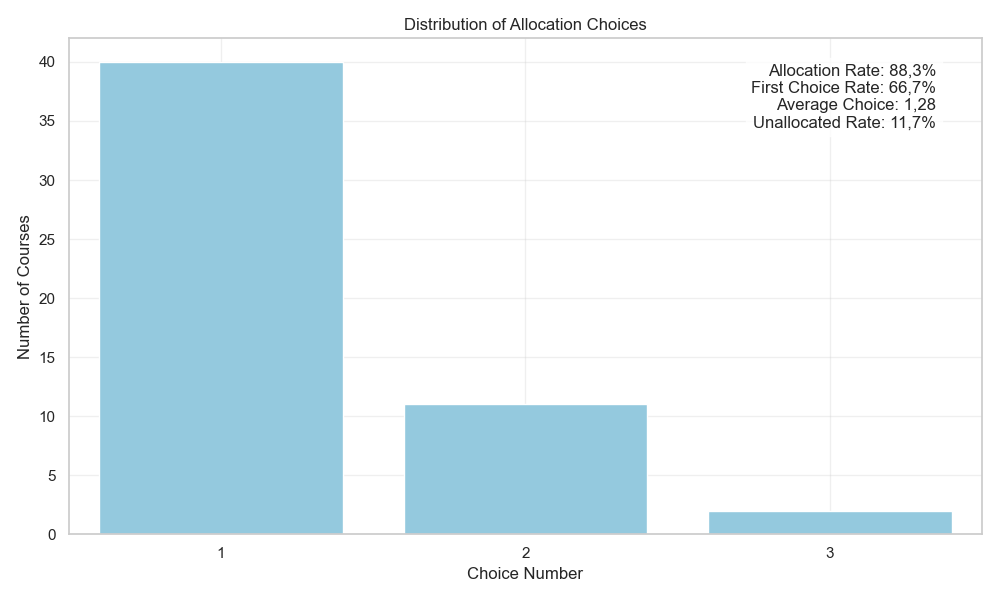
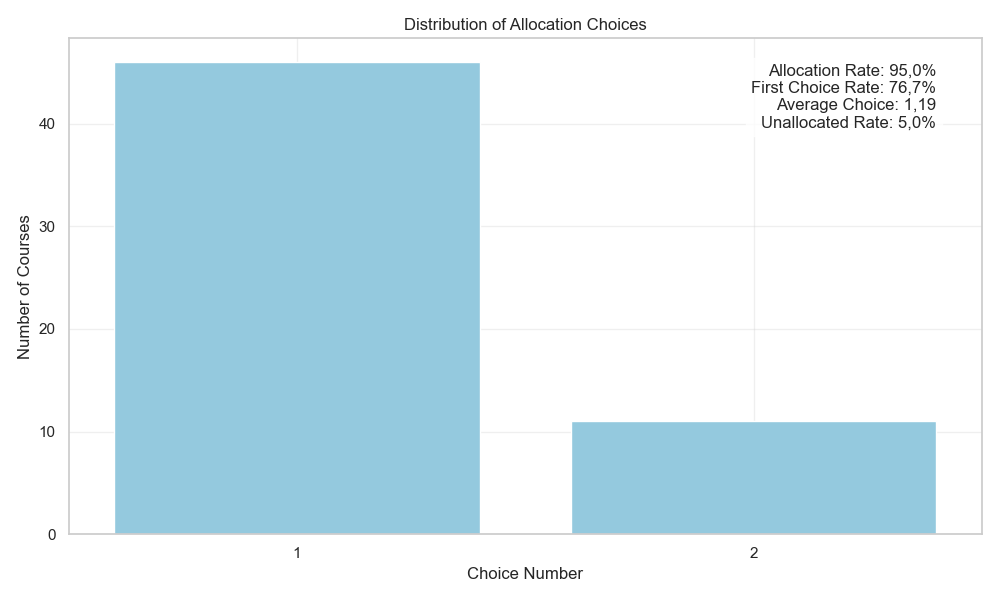
Update changeSize in Main and adjust visualization plot dimensions and labels for clarity

diff --git a/room-allocation/target/classes/visualize.py b/room-allocation/target/classes/visualize.py
@@ -188,7 +188,7 @@ def plot_strategy_comparisons(data, output_dir):
     print(f"Generated strategy comparison plot")
 
     # Create additional plot for more detailed metrics with dual y-axes
-    fig, ax1 = plt.subplots(figsize=(12, 6))
+    fig, ax1 = plt.subplots(figsize=(10, 7))
     
     # Plot Average Choice on left y-axis
     color1 = '#2ecc71'  # Green
@@ -200,7 +200,8 @@ def plot_strategy_comparisons(data, output_dir):
                    alpha=0.7,
                    label='Average Choice')
     ax1.tick_params(axis='y', labelcolor=color1)
-    
+    ax1.set_ylim(0, 5)  # Set y-axis limit
+
     # Add value labels to the first set of bars
     for idx, v in enumerate(strategy_means['averageChoice']):
         ax1.text(idx, v + 0.1, f'{v:.2f}', 
@@ -227,13 +228,13 @@ def plot_strategy_comparisons(data, output_dir):
                 ha='center', va='bottom', color=color2, fontweight='bold')
     
     # Set x-axis labels
-    plt.xticks(range(len(strategy_means)), 
-               strategy_means.index,
-               rotation=45,
-               ha='right')
-    
+    # Set x-axis labels
+    ax1.set_xticks(range(len(strategy_means)))
+    ax1.set_xticklabels(strategy_means.index, rotation=45, ha='right')
+    ax2.grid(False)
+    ax1.grid(False)
     # Add title
-    plt.title('Strategy Performance Metrics Comparison', pad=20)
+    plt.title('Strategy Performance Metrics Comparison, lower is  better', pad=20)
     
     # Add legend
     lines1, labels1 = ax1.get_legend_handles_labels()

diff --git a/room-allocation/src/main/java/com/roomallocation/Main.java b/room-allocation/src/main/java/com/roomallocation/Main.java
@@ -24,7 +24,7 @@ public class Main {
             int numCourses = 60;
             int minSize = 10;
             int maxSize = 200;
-            int changeSize = 30;
+            int changeSize = 35;
             // Load rooms
             List<Room> rooms = RoomDataLoader.loadRooms();
 
